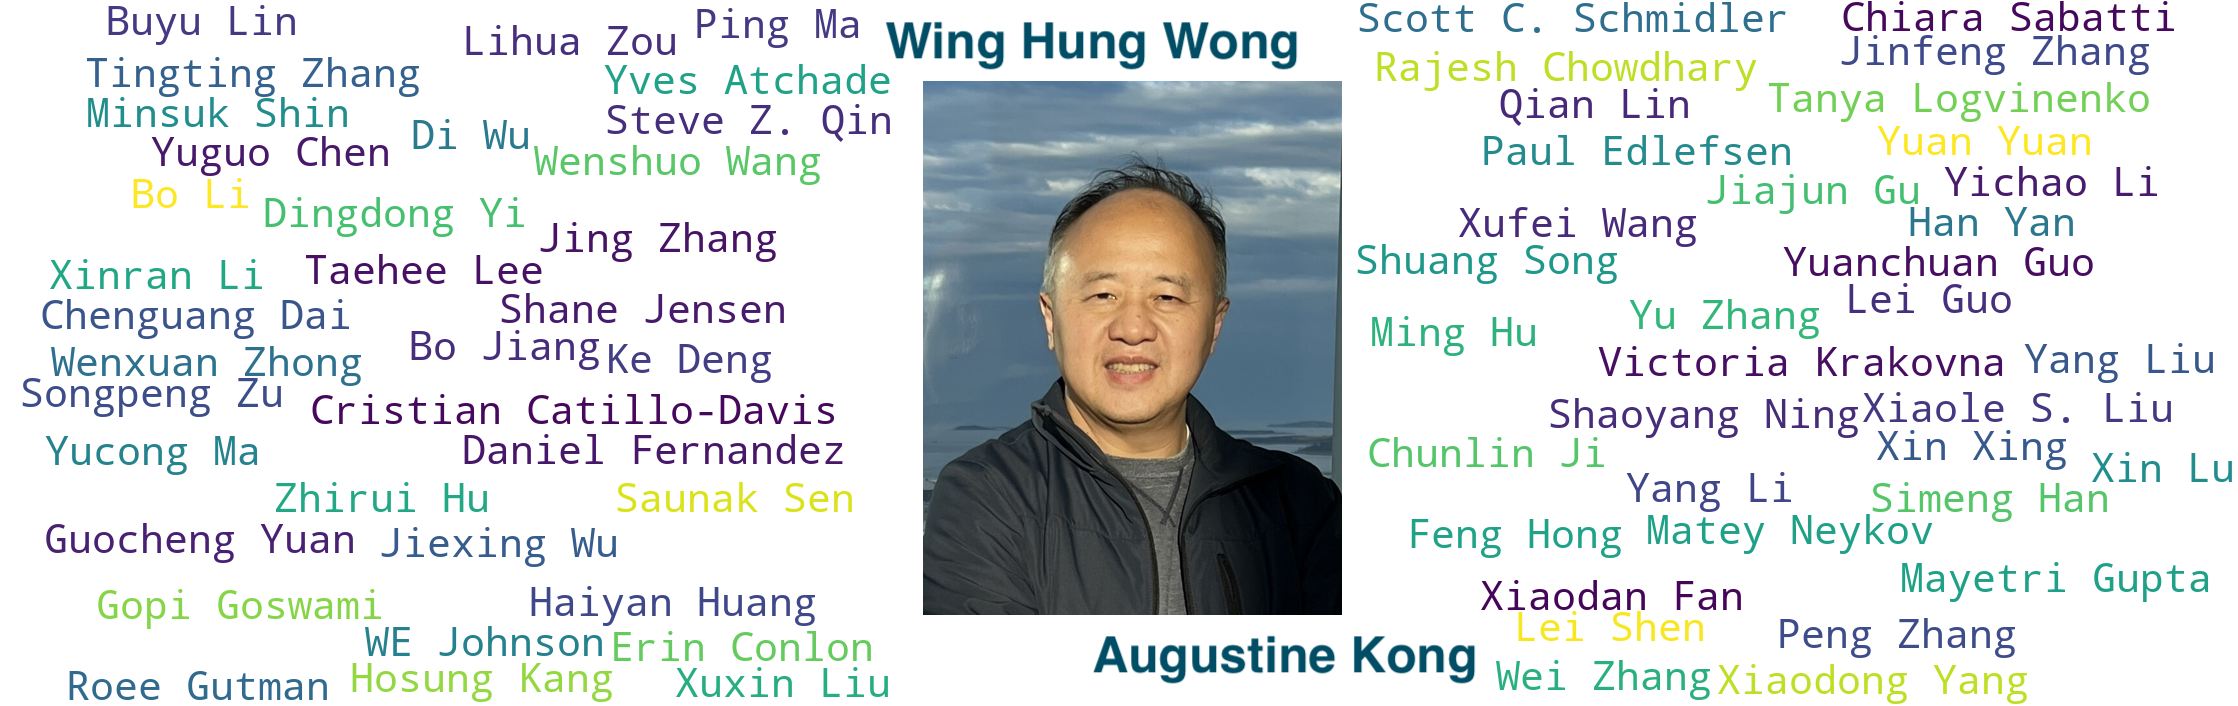
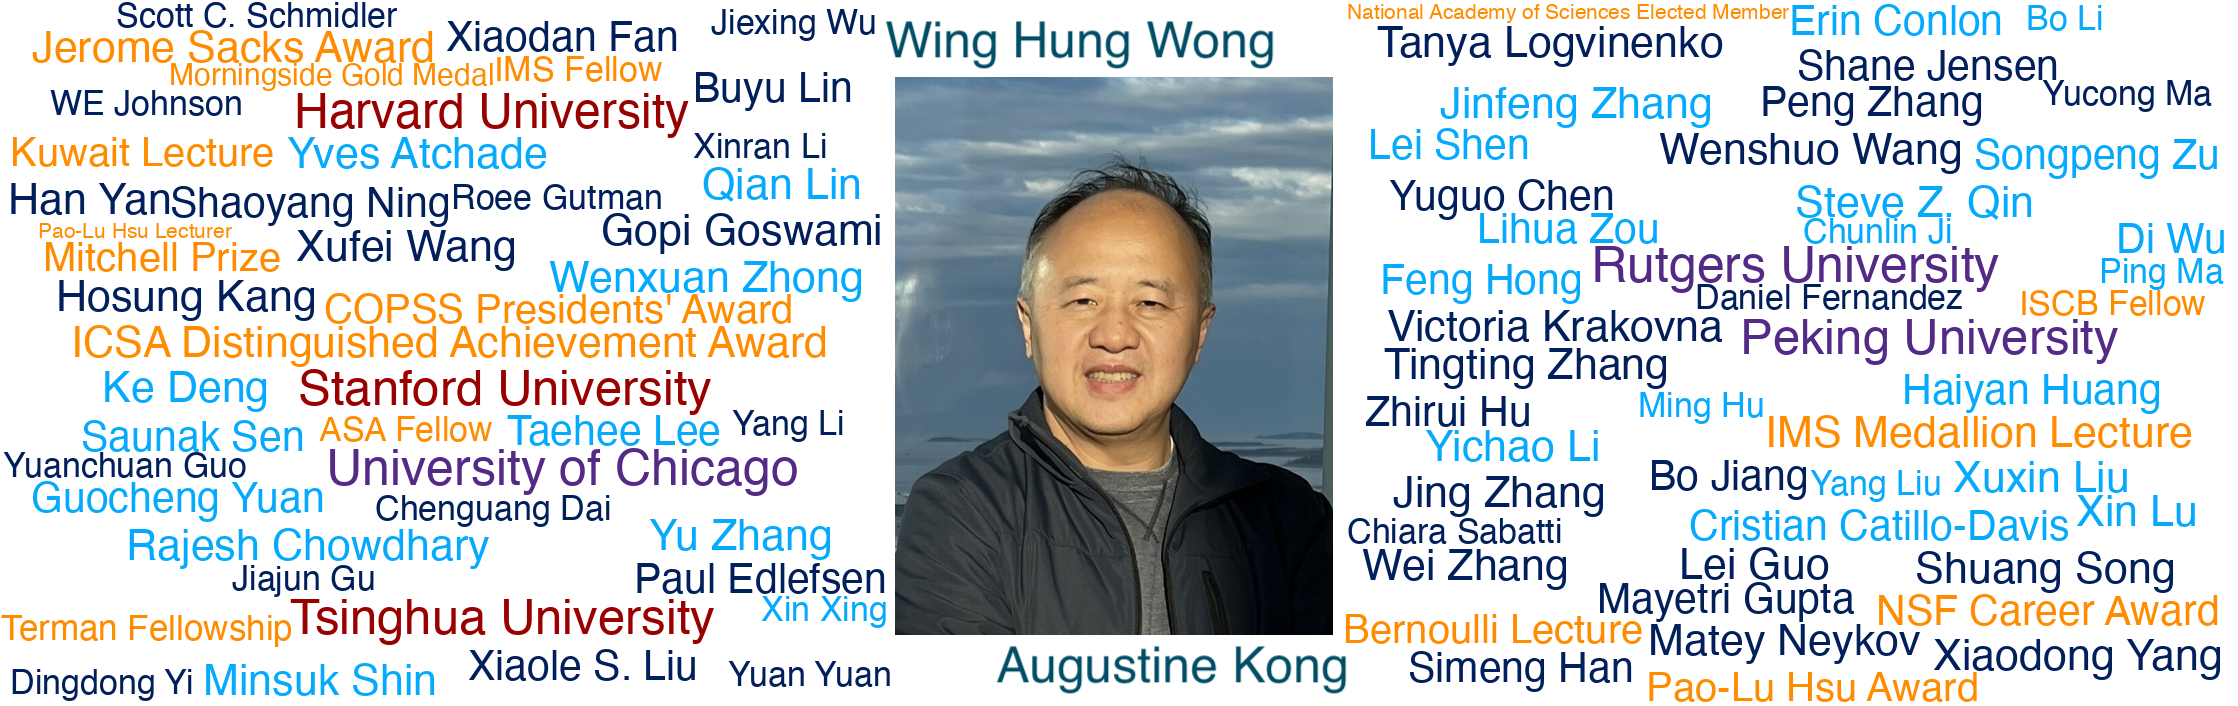
change wordcloud

diff --git a/index.html b/index.html
@@ -82,7 +82,7 @@ canonical: https://heliumjk.github.io
                     </div>
                   </div>
                   <br>
-                  <a target="_blank" href="https://forms.gle/sYje81uHnpMtMJFy5" class="btn std-btn btn-info animated fadeInUp">Registration Here</a>
+                  <!-- <a target="_blank" href="https://forms.gle/sYje81uHnpMtMJFy5" class="btn std-btn btn-info animated fadeInUp">Registration Here</a> -->
                   
                   <!-- <a href="" class="btn std-btn btn-info btn-common animated fadeInUp">More Later</a> -->
 
@@ -118,14 +118,19 @@ canonical: https://heliumjk.github.io
         <div class="mb-40"></div>
         <div class="row justify-content-center">
           <h4>
-              Let's celebrate Jun's 60th birthday!
+              Let's celebrate Jun's contributions!
           </h4>
+          <div class="col-md-8">
+          <p class="lead">
+            We are coming together to celebrate Jun Liu’s remarkable contributions to Data Science, Statistical Learning, and the broader academic community since 1988. From pioneering research to mentoring nearly 80 PhD students and postdoctoral fellows, Jun has profoundly shaped modern statistics across institutions and continents. His influential work in computational biology has also forged vital connections between statistics and biomedical research, deepening our understanding of complex biological systems.<br><br>This two-day symposium will take place in Boston, beginning the afternoon of Sunday, July 27, and continuing through the afternoon of Monday, July 28, 2025. The program will include academic sessions and discussions on recent developments in Data Science, AI, and related areas. Planning is still underway, and no speaker invitations have been issued yet. We warmly welcome your ideas and participation as we shape the agenda. Special thanks to Jun’s former students and to Two Sigma for their planning and generous support of this event, and to Harvard Department of Statistics for graciously hosting.
+          </p>
+        </div>
         </div>
     </div>
 
 
       <!-- accordions -->
-      <div class="mb-60"></div>
+      <div class="mb-40"></div>
 
       <div id="schedule" class="container">
         <!-- <h2 class="heading-title text-center">Speakers</h2> -->

diff --git a/_site/index.html b/_site/index.html
@@ -192,7 +192,7 @@ lantoniotrento@gmail.com
                     </div>
                   </div>
                   <br>
-                  <a target="_blank" href="https://forms.gle/sYje81uHnpMtMJFy5" class="btn std-btn btn-info animated fadeInUp">Registration Here</a>
+                  <!-- <a target="_blank" href="https://forms.gle/sYje81uHnpMtMJFy5" class="btn std-btn btn-info animated fadeInUp">Registration Here</a> -->
                   
                   <!-- <a href="" class="btn std-btn btn-info btn-common animated fadeInUp">More Later</a> -->
 
@@ -228,14 +228,19 @@ lantoniotrento@gmail.com
         <div class="mb-40"></div>
         <div class="row justify-content-center">
           <h4>
-              Let's celebrate Jun's 60th birthday!
+              Let's celebrate Jun's contributions!
           </h4>
+          <div class="col-md-8">
+          <p class="lead">
+            We are coming together to celebrate Jun Liu’s remarkable contributions to Data Science, Statistical Learning, and the broader academic community since 1988. From pioneering research to mentoring nearly 80 PhD students and postdoctoral fellows, Jun has profoundly shaped modern statistics across institutions and continents. His influential work in computational biology has also forged vital connections between statistics and biomedical research, deepening our understanding of complex biological systems.<br><br>This two-day symposium will take place in Boston, beginning the afternoon of Sunday, July 27, and continuing through the afternoon of Monday, July 28, 2025. The program will include academic sessions and discussions on recent developments in Data Science, AI, and related areas. Planning is still underway, and no speaker invitations have been issued yet. We warmly welcome your ideas and participation as we shape the agenda. Special thanks to Jun’s former students and to Two Sigma for their planning and generous support of this event, and to Harvard Department of Statistics for graciously hosting.
+          </p>
+        </div>
         </div>
     </div>
 
 
       <!-- accordions -->
-      <div class="mb-60"></div>
+      <div class="mb-40"></div>
 
       <div id="schedule" class="container">
         <!-- <h2 class="heading-title text-center">Speakers</h2> -->

diff --git a/_site/gen_wordcloud.py b/_site/gen_wordcloud.py
@@ -1,0 +1,115 @@
+from wordcloud import WordCloud
+import matplotlib.pyplot as plt
+from matplotlib import font_manager
+import numpy as np
+import random
+
+# Try to find a Helvetica font on the system
+helvetica_path = None
+for font in font_manager.findSystemFonts(fontpaths=None, fontext='ttf'):
+    if "Helvetica" in font:
+        helvetica_path = font
+        break
+
+# If Helvetica is not found, use fallback font
+font_path_to_use = helvetica_path if helvetica_path else None
+
+
+# Recreate data: names and categories
+names = [
+    "Chiara Sabatti", "Scott C. Schmidler", "Yuguo Chen", "Xiaole S. Liu", "Tanya Logvinenko",
+    "Mayetri Gupta", "Shane Jensen", "Hosung Kang", "Gopi Goswami", "Peng Zhang", "WE Johnson",
+    "Jiajun Gu", "Xiaodan Fan", "Tingting Zhang", "Wei Zhang", "Yuan Yuan", "Jing Zhang",
+    "Paul Edlefsen", "Roee Gutman", "Bo Jiang", "Lei Guo", "Simeng Han", "Daniel Fernandez",
+    "Matey Neykov", "Yang Li", "Victoria Krakovna", "Xufei Wang", "Jiexing Wu", "Dingdong Yi",
+    "Xinran Li", "Shaoyang Ning", "Zhirui Hu", "Chenguang Dai", "Yucong Ma", "Wenshuo Wang",
+    "Han Yan", "Shuang Song", "Buyu Lin", "Xiaodong Yang", "Yuanchuan Guo"
+]
+
+postdoc = ["Saunak Sen", "Steve Z. Qin", "Erin Conlon", "Haiyan Huang", "Xin Lu", "Yves Atchade", "Ping Ma",
+    "Lei Shen", "Yu Zhang", "Cristian Catillo-Davis", "Lihua Zou", "Guocheng Yuan", "Wenxuan Zhong",
+    "Jinfeng Zhang", "Rajesh Chowdhary", "Xuxin Liu", "Ke Deng", "Chunlin Ji", "Ming Hu",
+    "Feng Hong", "Di Wu", "Yang Liu", "Qian Lin", "Bo Li", "Minsuk Shin", "Xin Xing",
+    "Songpeng Zu", "Taehee Lee", "Yichao Li"
+]
+
+work = ["Harvard University", "Tsinghua University", "Stanford University"]
+edu = ["University of Chicago", "Rutgers University", "Peking University"]
+award = [
+    "NSF Career Award", "COPSS Presidents' Award", "ASA Fellow", "IMS Fellow", "ISCB Fellow",
+    "Morningside Gold Medal", "National Academy of Sciences Elected Member",
+    "Pao-Lu Hsu Lecturer", "Jerome Sacks Award", "Pao-Lu Hsu Award",
+    "ICSA Distinguished Achievement Award", "Kuwait Lecture", "Bernoulli Lecture", "IMS Medallion Lecture", 
+    "Mitchell Prize", "Terman Fellowship"
+]
+
+# Combine and assign categories
+name_category_map = {}
+for name in names:
+    name_category_map[name] = 'phd'
+for name in postdoc:
+    name_category_map[name] = 'postdoc'
+for name in work:
+    name_category_map[name] = 'work'
+for name in edu:
+    name_category_map[name] = 'edu'
+for name in award:
+    name_category_map[name] = 'award'
+
+# Assign frequencies with slight variation
+# frequencies = {name: random.randint(10, 13) for name in name_category_map.keys()}
+frequencies = {}
+for name in name_category_map:
+    category = name_category_map[name]
+    if category in ['phd', 'postdoc']:
+        frequencies[name] = random.randint(12, 14)
+    elif category in ['work', 'edu']:
+        frequencies[name] = random.randint(17, 20)
+    elif category == 'award':
+        frequencies[name] = random.randint(12, 14)
+
+# Color scheme by category
+category_colors = {
+    'phd': '#011f5b', 
+    'postdoc': '#06aafc',
+    'work': '#990000',
+    'edu': '#532a85',
+    'award': 'darkorange'
+}
+
+# Custom color function
+def color_func(word, **kwargs):
+    category = name_category_map.get(word, 'phd')
+    return category_colors.get(category, 'black')
+
+# WordCloud size: 2238x706, centered vertical fifth
+width_ultra = 2238
+height_ultra = 706
+fifth_width_ultra = width_ultra // 5
+start_ultra = (width_ultra - fifth_width_ultra) // 2
+end_ultra = start_ultra + fifth_width_ultra
+
+mask_ultra = np.zeros((height_ultra, width_ultra), dtype=np.uint8)
+mask_ultra[:, start_ultra:end_ultra] = 255
+
+# Generate the word cloud with setup matching the new resolution and layout
+wc_ultra_custom = WordCloud(
+    width=width_ultra,
+    height=height_ultra,
+    background_color='white',
+    mask=mask_ultra,
+    contour_color='white',
+    contour_width=0,
+    font_path=font_path_to_use,
+    prefer_horizontal=1.0,
+    relative_scaling=0.5,
+    min_font_size=20,
+    max_font_size=50,
+    color_func=color_func
+).generate_from_frequencies(frequencies)
+
+# Save to specified path
+output_path_custom = "./junliu_students.png"
+wc_ultra_custom.to_file(output_path_custom)
+
+output_path_custom

diff --git a/gen_wordcloud.py b/gen_wordcloud.py
@@ -1,0 +1,115 @@
+from wordcloud import WordCloud
+import matplotlib.pyplot as plt
+from matplotlib import font_manager
+import numpy as np
+import random
+
+# Try to find a Helvetica font on the system
+helvetica_path = None
+for font in font_manager.findSystemFonts(fontpaths=None, fontext='ttf'):
+    if "Helvetica" in font:
+        helvetica_path = font
+        break
+
+# If Helvetica is not found, use fallback font
+font_path_to_use = helvetica_path if helvetica_path else None
+
+
+# Recreate data: names and categories
+names = [
+    "Chiara Sabatti", "Scott C. Schmidler", "Yuguo Chen", "Xiaole S. Liu", "Tanya Logvinenko",
+    "Mayetri Gupta", "Shane Jensen", "Hosung Kang", "Gopi Goswami", "Peng Zhang", "WE Johnson",
+    "Jiajun Gu", "Xiaodan Fan", "Tingting Zhang", "Wei Zhang", "Yuan Yuan", "Jing Zhang",
+    "Paul Edlefsen", "Roee Gutman", "Bo Jiang", "Lei Guo", "Simeng Han", "Daniel Fernandez",
+    "Matey Neykov", "Yang Li", "Victoria Krakovna", "Xufei Wang", "Jiexing Wu", "Dingdong Yi",
+    "Xinran Li", "Shaoyang Ning", "Zhirui Hu", "Chenguang Dai", "Yucong Ma", "Wenshuo Wang",
+    "Han Yan", "Shuang Song", "Buyu Lin", "Xiaodong Yang", "Yuanchuan Guo"
+]
+
+postdoc = ["Saunak Sen", "Steve Z. Qin", "Erin Conlon", "Haiyan Huang", "Xin Lu", "Yves Atchade", "Ping Ma",
+    "Lei Shen", "Yu Zhang", "Cristian Catillo-Davis", "Lihua Zou", "Guocheng Yuan", "Wenxuan Zhong",
+    "Jinfeng Zhang", "Rajesh Chowdhary", "Xuxin Liu", "Ke Deng", "Chunlin Ji", "Ming Hu",
+    "Feng Hong", "Di Wu", "Yang Liu", "Qian Lin", "Bo Li", "Minsuk Shin", "Xin Xing",
+    "Songpeng Zu", "Taehee Lee", "Yichao Li"
+]
+
+work = ["Harvard University", "Tsinghua University", "Stanford University"]
+edu = ["University of Chicago", "Rutgers University", "Peking University"]
+award = [
+    "NSF Career Award", "COPSS Presidents' Award", "ASA Fellow", "IMS Fellow", "ISCB Fellow",
+    "Morningside Gold Medal", "National Academy of Sciences Elected Member",
+    "Pao-Lu Hsu Lecturer", "Jerome Sacks Award", "Pao-Lu Hsu Award",
+    "ICSA Distinguished Achievement Award", "Kuwait Lecture", "Bernoulli Lecture", "IMS Medallion Lecture", 
+    "Mitchell Prize", "Terman Fellowship"
+]
+
+# Combine and assign categories
+name_category_map = {}
+for name in names:
+    name_category_map[name] = 'phd'
+for name in postdoc:
+    name_category_map[name] = 'postdoc'
+for name in work:
+    name_category_map[name] = 'work'
+for name in edu:
+    name_category_map[name] = 'edu'
+for name in award:
+    name_category_map[name] = 'award'
+
+# Assign frequencies with slight variation
+# frequencies = {name: random.randint(10, 13) for name in name_category_map.keys()}
+frequencies = {}
+for name in name_category_map:
+    category = name_category_map[name]
+    if category in ['phd', 'postdoc']:
+        frequencies[name] = random.randint(12, 14)
+    elif category in ['work', 'edu']:
+        frequencies[name] = random.randint(17, 20)
+    elif category == 'award':
+        frequencies[name] = random.randint(12, 14)
+
+# Color scheme by category
+category_colors = {
+    'phd': '#011f5b', 
+    'postdoc': '#06aafc',
+    'work': '#990000',
+    'edu': '#532a85',
+    'award': 'darkorange'
+}
+
+# Custom color function
+def color_func(word, **kwargs):
+    category = name_category_map.get(word, 'phd')
+    return category_colors.get(category, 'black')
+
+# WordCloud size: 2238x706, centered vertical fifth
+width_ultra = 2238
+height_ultra = 706
+fifth_width_ultra = width_ultra // 5
+start_ultra = (width_ultra - fifth_width_ultra) // 2
+end_ultra = start_ultra + fifth_width_ultra
+
+mask_ultra = np.zeros((height_ultra, width_ultra), dtype=np.uint8)
+mask_ultra[:, start_ultra:end_ultra] = 255
+
+# Generate the word cloud with setup matching the new resolution and layout
+wc_ultra_custom = WordCloud(
+    width=width_ultra,
+    height=height_ultra,
+    background_color='white',
+    mask=mask_ultra,
+    contour_color='white',
+    contour_width=0,
+    font_path=font_path_to_use,
+    prefer_horizontal=1.0,
+    relative_scaling=0.5,
+    min_font_size=20,
+    max_font_size=50,
+    color_func=color_func
+).generate_from_frequencies(frequencies)
+
+# Save to specified path
+output_path_custom = "./junliu_students.png"
+wc_ultra_custom.to_file(output_path_custom)
+
+output_path_custom
